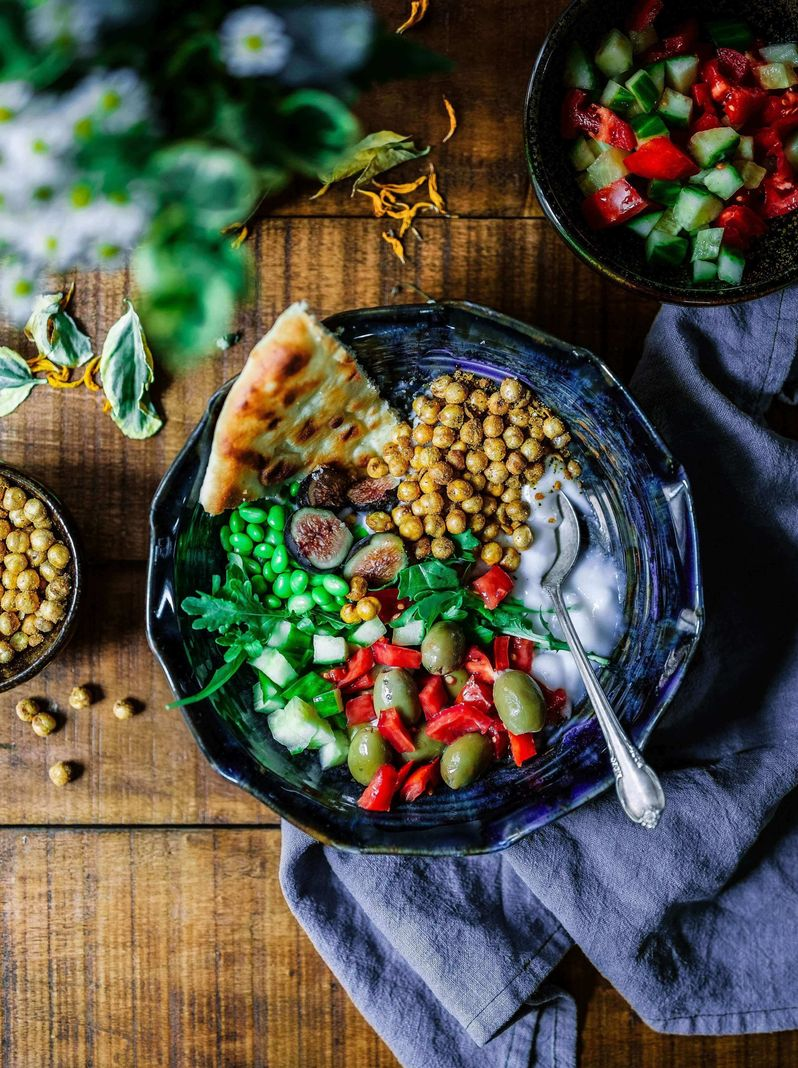
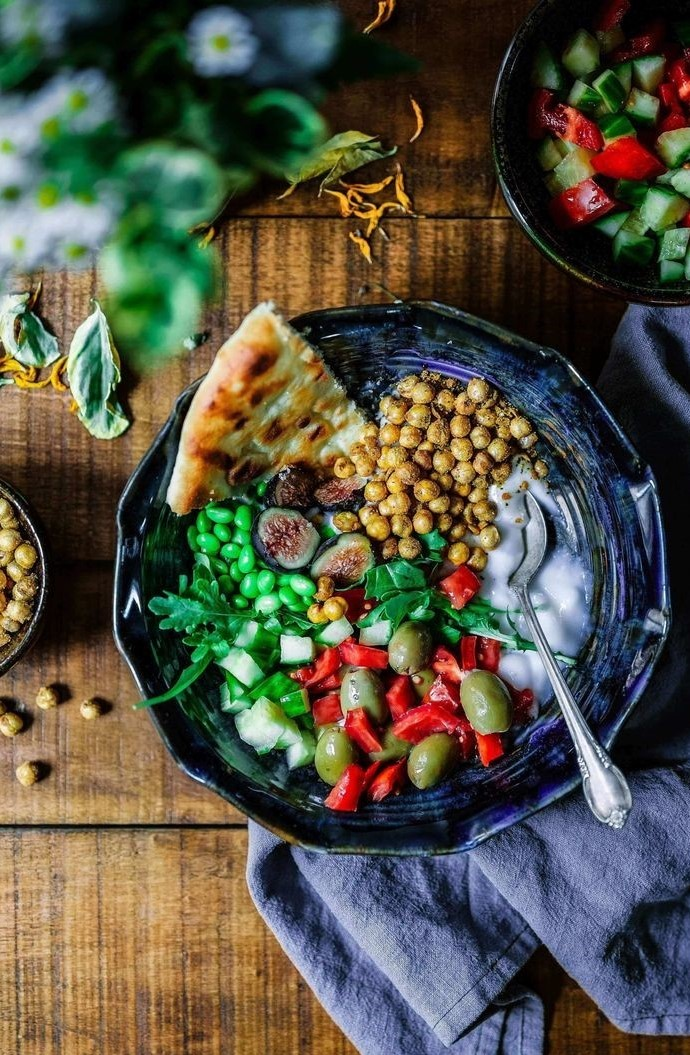
Update food_menu_image to cropped version & center align footer sections.

diff --git a/templates/base.html b/templates/base.html
@@ -144,9 +144,11 @@
                 <div class="col-sm-8 col-md-6 col-lg-4 mt-4 pb-2 pink-bground" id="opening-hours">
                     <!-- Opening hours section of footer -->
                     <h4 class="brand-text mt-2"><strong>Opening Hours</strong></h4>
-                    <p class="clock-time">Mon - Fri: 7am-8pm</p>
-                    <p>Sat - Sun: 8am - 10pm</p>
-                    <p><strong>Bank Holidays: </strong> Closed</p>
+                    <div class="center">
+                        <p>Mon - Fri: 7am-10pm <br>
+                            Sun: 8am - 8pm <br>
+                            <strong>Bank Holidays: </strong> Closed</p>
+                    </div>
                 </div>
                 <div class="col-sm-8 col-md-6 col-lg-4 mt-4 pb-2 pink-bground" id="map-section">
                     <!-- Map section of footer to be hidden on mobiles -->
@@ -158,10 +160,11 @@
                 <!-- Contact information section of footer -->
                 <div class="col-sm-8 col-lg-4 mt-4 pb-2 pink-bground" id="contact-section">
                     <h4 class="footer-heading brand-text mt-2"><strong>Stay In Touch</strong></h4>
-                    <p>Email: <a href="mailto:daisy.l.g@hotmail.co.uk" target="_blank"
-                            class="contact-link">info@growrestaurant.com</a></p>
-                    <p>Address: 12 Crouch Hill,<br> London N4 4AJ</p>
-                    <p>Phone: <span class="contact-link">02076841002</span></p>
+                    <div class="center">
+                        <p><a href="{% url 'contact_us' %}" class="contact-link">Send us a message!</a><br>
+                            12 Crouch Hill, London N4 4AJ <br>
+                            Phone: <span class="contact-link">02076841002</span></p>
+                    </div>
                     <div class="mb-2 flex-center">
                         <!-- Social media links -->
                         <!-- Facebook -->
@@ -183,6 +186,7 @@
                             <i class="fab fa-instagram fa-lg white-text mr-md-5 mr-3 fa-2x"> </i>
                         </a>
                     </div>
+
                 </div>
             </div>
         </div>
